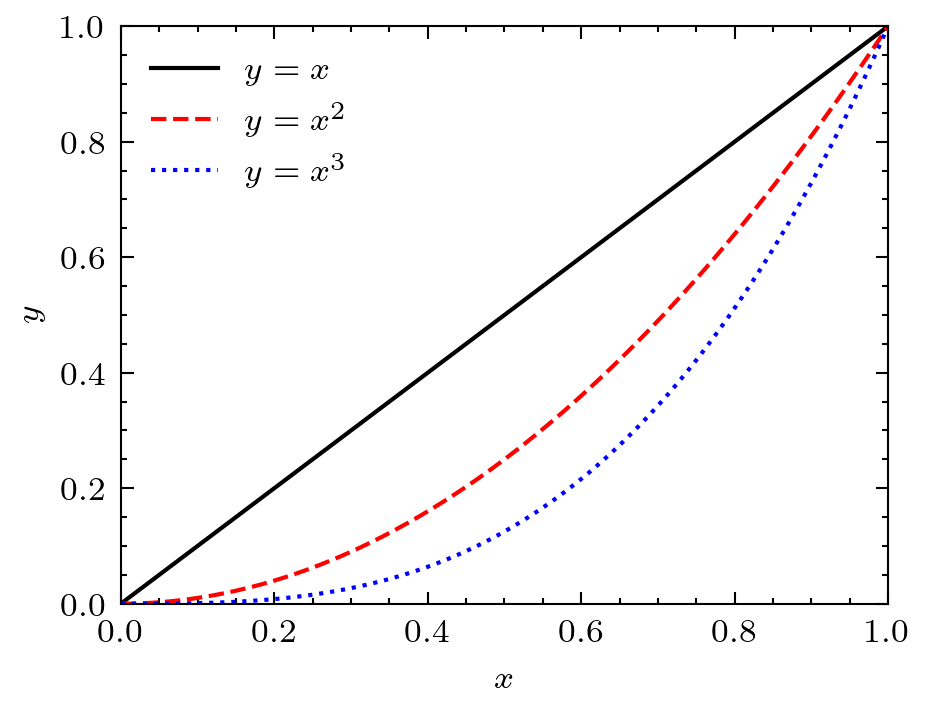
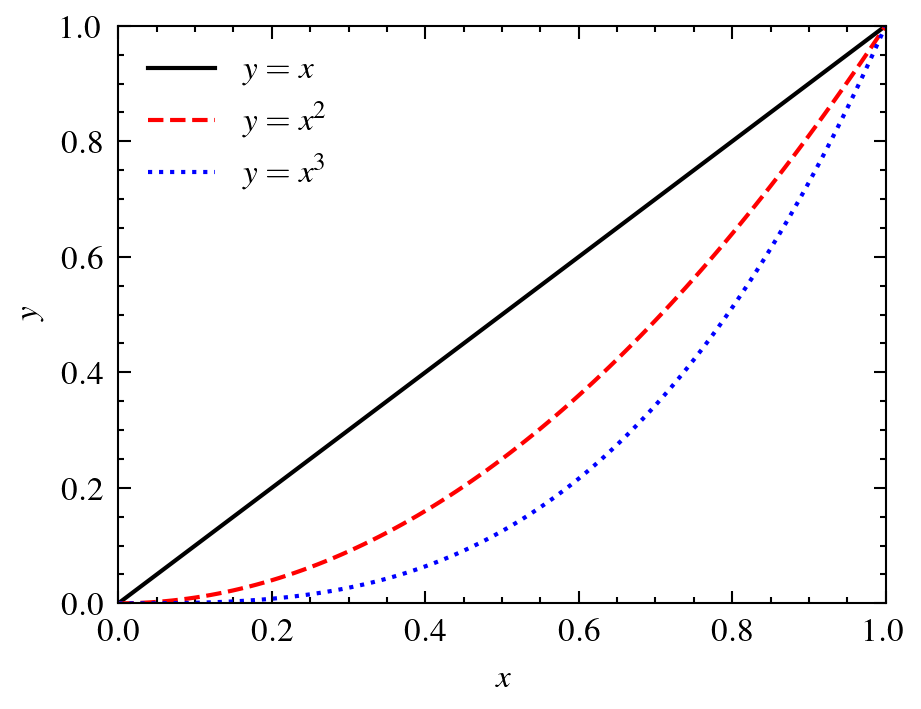
Added looping over PlotStyle items for testing. Found some quirks.

diff --git a/Plot/plot_feature/src/main.rs b/Plot/plot_feature/src/main.rs
@@ -1,28 +1,71 @@
 extern crate peroxide;
 use peroxide::fuga::*;
 
+use std::collections::BTreeMap;
+
+trait PlotStyleExt {
+    fn from_str(s: &str) -> PlotStyle;
+}
+
+impl PlotStyleExt for PlotStyle {
+    fn from_str(s: &str) -> PlotStyle {
+        match s {
+            //"Default" => PlotStyle::Default,
+            "IEEE" => PlotStyle::IEEE,
+            "Nature" => PlotStyle::Nature,
+            "Science" => PlotStyle::Science,
+            _ => PlotStyle::Default
+        }
+    }
+}
+
 fn main() -> Result<(), Box<dyn Error>> {
     let x = seq(0, 1, 0.01);
     let x2 = x.fmap(|t| t.powi(2));
     let x3 = x.fmap(|t| t.powi(3));
 
-    let mut plt = Plot2D::new();
+    let mut styles: BTreeMap<&str, &str> = BTreeMap::new();
+    // ## supported scienceplot styles (hard coded enum ...)
+    // ## no direct setting of e.g. "retro" possible
+    styles.insert("ieee", "IEEE");
+    // ## unordered HashTable works sometimes for all styles
+    // ## orderer BTreeMap fails with some latex error for Nature style
+    //styles.insert("nature", "Nature");
+    styles.insert("science", "Science");
+    // needs to be (alphabetically) first entry, 
+    // otherwise Default has properties of previous style!
+    styles.insert("0_default", "Default");
 
-    plt
-        .set_domain(x.clone())
-        .insert_image(x)
-        .insert_image(x2)
-        .insert_image(x3)
-        .set_style(PlotStyle::Default) // Or Science, Nature, IEEE
-        .set_dpi(300)
-        .set_xlabel("$x$")
-        .set_ylabel("$y$")
-        .set_legend(vec!["$y=x$", "$y=x^2$", "$y=x^3$"])
-        .grid(Grid::On)
-        .tight_layout()
-        .set_path("plot.png")
-        .savefig()?;
+    for (key, style_name) in styles.iter() {
+
+        let mut plt = Plot2D::new();
+
+        let mut filename: String = "plot".to_owned();
+        if (*key) != "0_default" {
+            filename = format!("{}_{}.png", filename, key);
+        } else {
+            filename = format!("{}.png", filename);
+        }
+        print!("{} ...", filename);
+
+        plt
+            .set_domain(x.clone())
+            .insert_image(x.clone())
+            .insert_image(x2.clone())
+            .insert_image(x3.clone())
+            //.set_style(PlotStyle::Default)
+            .set_style(PlotStyle::from_str(style_name))
+            .set_dpi(300)
+            .set_xlabel("$x$")
+            .set_ylabel("$y$")
+            .set_legend(vec!["$y=x$", "$y=x^2$", "$y=x^3$"])
+            .grid(Grid::On)
+            .tight_layout()
+            .set_path(filename.as_str())
+            .savefig()?;
+
+        println!(" saved!");
+    }
 
     Ok(())
 }
-
